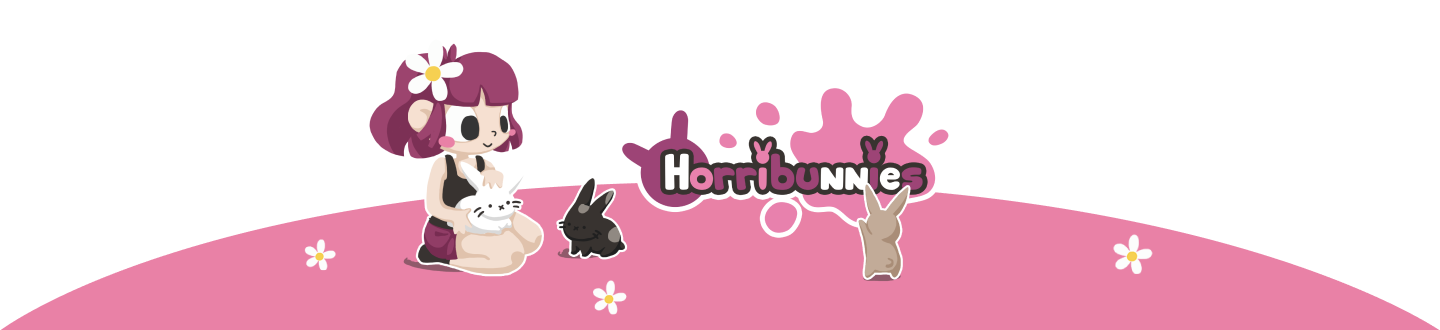
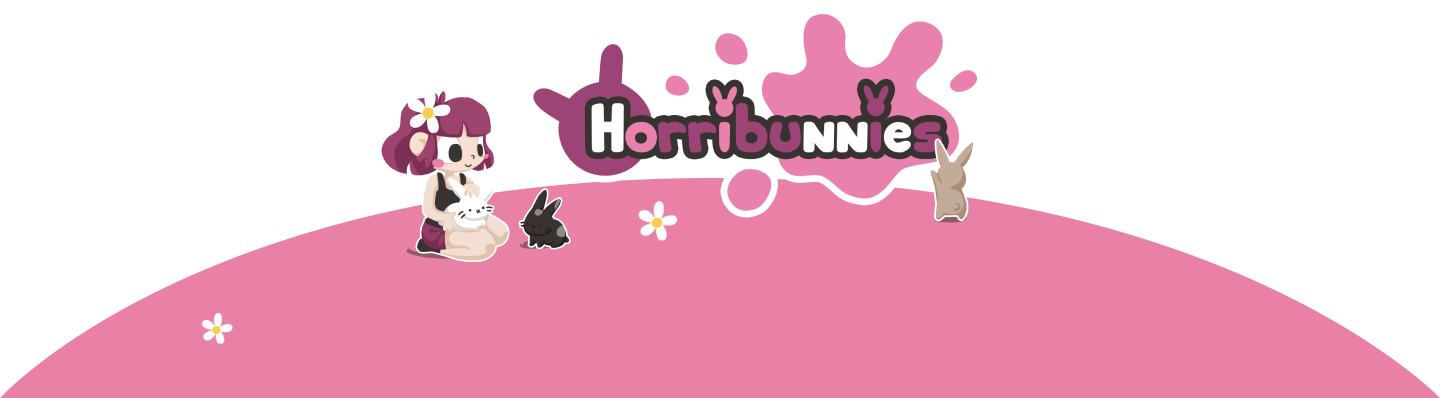
Improve header layout

diff --git a/index.html b/index.html
@@ -59,8 +59,10 @@
         </div>
     </div>
     <div class="columns no-mb" id="header-block">
-        <div class="column is-12 no-pb" id="header-logo">
-            <img id="horribunnies-logo" src="images/Horribunnies.png" alt="Horribunnies logo header">
+        <div class="column is-12 no-pb no-pt" id="header-logo">
+            <div id="horribunnies-logo-wrapper">
+                <img id="horribunnies-logo" src="images/Horribunnies.png" alt="Horribunnies logo header">
+            </div>
             <div id="header-text">In <span id="horribunnies-text">Horribunnies</span>, you get to pet and raise some cute <span id="bwunnies-wrap"><span id="bwunnies">bwunnies</span> !!</span>
                 <br>Feed them, play with them and cherish them as much as their future owners will ! <span id="bun-emoji">(๑╹ᆺ╹)</span></div>
         </div>

diff --git a/css/index.css b/css/index.css
@@ -5,6 +5,7 @@
 }
 
 #header-text {
+    position: absolute;
     font-family: IndieFlower, sans-serif;
     color: black;
     width: 100%;
@@ -12,16 +13,28 @@
     padding-right: 20%;
     padding-bottom: 20px;
     max-width: 1440px;
-    background-color: #E981A6;
     text-align: center;
     font-size: 22px;
     line-height: 29px;
+    bottom: 12px;
 }
 
 #header-logo {
     display: flex;
     flex-direction: column;
     align-items: center;
+}
+
+#horribunnies-logo-wrapper {
+    width: 100%;
+    max-width: 900px;
+    overflow: visible;
+}
+
+#horribunnies-logo {
+    max-width: none;
+    width: 160%;
+    margin-left: -30%;
 }
 
 @media (max-width: 900px) {

diff --git a/css/main.css b/css/main.css
@@ -22,3 +22,7 @@
 .no-mb {
     margin-bottom: 0 !important;
 }
+
+.no-pt {
+    padding-top: 0 !important;
+}
